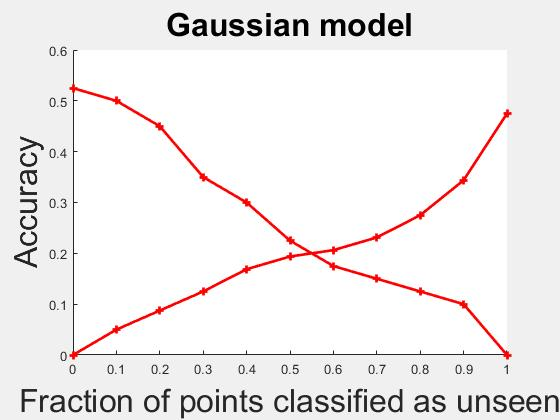
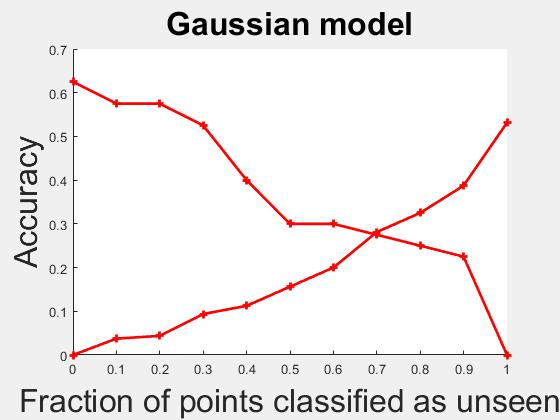
working code for multiple thetas on small data

diff --git a/main.m b/main.m
@@ -1,4 +1,6 @@
-clear 
+clear all
+clc
+close all
 addpath gaussianFunctions/;
 addpath loopFunctions/;
 addpath costFunctions/;
@@ -64,41 +66,70 @@ trainParamsUnseen.wordDataset = fullParams.wordset;
 [thetaUnseen, trainParamsUnseen] = zeroShotTrain(trainParamsUnseen);
 save(sprintf('%s/thetaUnseenSoftmax.mat', outputPath), 'thetaUnseen', 'trainParamsUnseen');
 % 
-% % Train Gaussian classifier
+% % Train Gaussian classifier %mu 10x50, sigma: 10x1
+D =trainParams.outputSize;
+mu = zeros(numCategories, D );
+sigma = zeros(numCategories,1);
 disp('Training Gaussian classifier using Mixture of Gaussians');
-% mapped = mapDoMap(X, theta, trainParams);
-% [mu, sigma, priors] = trainGaussianDiscriminant(mapped, Y, numCategories, wordTable);
-% sortedLogprobabilities = sort(predictGaussianDiscriminant(mapped, mu, sigma, priors, zeroCategories));
-% 
+priors = zeros(numCategories,1);
+k = 1;
+mapped = cell(length(nonZeroCategories),1);
+for i =1:numCategories
+    if ismember(i,nonZeroCategories)
+        mapped{k} = mapDoMap(X, theta{k}, trainParams);
+        [mu(i,:), sigma(i), priors(i)] = trainGaussianDiscriminant(mapped{k}, Y, i, numCategories, wordTable(:,i));
+        k = k+1;
+    else
+        mu(i,:) = wordTable(:,i)';
+        priors(i) = sum(Y == cat_id)/ length(Y);
+        
+    end
+end
+[~,numTraining] = size(X);
+sorted_train_Logprob = zeros(length(nonZeroCategories), numTraining );
+mappedTestImages = cell(length(nonZeroCategories),1);
+for i = 1: length(nonZeroCategories)
+    cat_id = nonZeroCategories(i);
+    sorted_train_Logprob(i,:) = predictGaussianDiscriminant(mapped{i}, mu(cat_id,:), sigma(cat_id), priors(cat_id));
+    mappedTestImages{i} = mapDoMap(testX, theta{i}, trainParams);
+
+end
+    % 
 % % Test
-% mappedTestImages = mapDoMap(testX, theta, trainParams);
+%mappedTestImages = mapDoMap(testX, theta, trainParams);
+sorted_train_Logprob = sort(sum(sorted_train_Logprob));
+resolution = 11;
+gSeenAccuracies = zeros(1, resolution);
+gUnseenAccuracies = zeros(1, resolution);
+gAccuracies = zeros(1, resolution);
+numPerIteration = floor(length(sorted_train_Logprob) / (resolution-1));
+
+for i = 1: length(nonZeroCategories)
+    cat_id = nonZeroCategories(i);
+    logprobabilities(i,:) = predictGaussianDiscriminant(mappedTestImages{i}, mu(cat_id,:), sigma(cat_id), priors(cat_id));
+end
+%logprobabilities = sum(logprobabilities);
+
+% sortedLogprobabilities (ascending order)= a   b   c   d   e   f   g   h
+% if numPerIteration 3
+%cutoffs = [a , d, g]
+cutoffs = [ arrayfun(@(x) sorted_train_Logprob((x-1)*numPerIteration+1), 1:resolution-1) sorted_train_Logprob(end) ];
+for i = 1:resolution
+    cutoff = cutoffs(i);
+    % Test Gaussian classifier
+    fprintf('With cutoff %f:\n', cutoff);
+    results = mapGaussianThresholdDoEvaluate( testX, mappedTestImages, testY, zeroCategories, label_names, wordTable, ...
+        theta, trainParams, thetaSeen, trainParamsSeen, thetaUnseen, trainParamsUnseen, logprobabilities, cutoff, true);
+
+    gSeenAccuracies(i) = results.seenAccuracy;
+    gUnseenAccuracies(i) = results.unseenAccuracy;
+    gAccuracies(i) = results.accuracy;
+end
+ gSeenAccuracies = fliplr(gSeenAccuracies);
+ gUnseenAccuracies = fliplr(gUnseenAccuracies);
+ gAccuracies = fliplr(gAccuracies);
 % 
-% resolution = 11;
-% gSeenAccuracies = zeros(1, resolution);
-% gUnseenAccuracies = zeros(1, resolution);
-% gAccuracies = zeros(1, resolution);
-% numPerIteration = floor(length(sortedLogprobabilities) / (resolution-1));
-% logprobabilities = predictGaussianDiscriminant(mappedTestImages, mu, sigma, priors, zeroCategories);
-% % sortedLogprobabilities (ascending order)= a   b   c   d   e   f   g   h
-% % if numPerIteration 3
-% %cutoffs = [a , d, g]
-% cutoffs = [ arrayfun(@(x) sortedLogprobabilities((x-1)*numPerIteration+1), 1:resolution-1) sortedLogprobabilities(end) ];
-% for i = 1:resolution
-%     cutoff = cutoffs(i);
-%     % Test Gaussian classifier
-%     fprintf('With cutoff %f:\n', cutoff);
-%     results = mapGaussianThresholdDoEvaluate( testX, testY, zeroCategories, label_names, wordTable, ...
-%         theta, trainParams, thetaSeen, trainParamsSeen, thetaUnseen, trainParamsUnseen, logprobabilities, cutoff, true);
-% 
-%     gSeenAccuracies(i) = results.seenAccuracy;
-%     gUnseenAccuracies(i) = results.unseenAccuracy;
-%     gAccuracies(i) = results.accuracy;
-% end
-% gSeenAccuracies = fliplr(gSeenAccuracies);
-% gUnseenAccuracies = fliplr(gUnseenAccuracies);
-% gAccuracies = fliplr(gAccuracies);
-% 
-% plot_Gaussian_model
+ plot_Gaussian_model
 %% 
 
 % disp('Training LoOP model'); fullParams.resolution = resolution;

diff --git a/gaussianFunctions/feedforwardDiscriminant.m b/gaussianFunctions/feedforwardDiscriminant.m
@@ -1,13 +1,14 @@
-function [guessedLabels] = feedforwardDiscriminant(thetaMapping, thetaSoftmaxSeen, thetaSoftmaxUnseen, trainParams, trainParamsSeen, trainParamsUnseen, logprobabilities, images, maxLogprobability, zeroCategoryTypes, nonzeroCategoryTypes, wordTable)
+function [guessedLabels] = feedforwardDiscriminant(thetaMapping, thetaSoftmaxSeen, thetaSoftmaxUnseen, trainParams, trainParamsSeen, trainParamsUnseen, logprobabilities, images, mappedTestImages, maxLogprobability, zeroCategoryTypes, nonzeroCategoryTypes, wordTable)
 
 addpath toolbox/pwmetric;
-
+sum_logprobabilities = sum(logprobabilities);
 % Forward Propagation
-mappedImages = mapDoMap(images, thetaMapping, trainParams);
+%mappedImages = mapDoMap(images, thetaMapping, trainParams);
 
-unseenIndices = logprobabilities < maxLogprobability;
+unseenIndices = sum_logprobabilities < maxLogprobability;
+
 seenIndices = ~unseenIndices;
-
+% Seen label classifier
 Ws = stack2param(thetaSoftmaxSeen, trainParamsSeen.decodeInfo);
 pred = exp(Ws{1}*images(:, seenIndices)); % k by n matrix with all calcs needed
 pred = bsxfun(@rdivide,pred,sum(pred));
@@ -16,10 +17,18 @@ guessedLabels(seenIndices) = nonzeroCategoryTypes(gind);
 
 % This is the unseen label classifier
 unseenWordTable = wordTable(:, zeroCategoryTypes);
-tDist = slmetric_pw(unseenWordTable, mappedImages(:, unseenIndices), 'eucdist');
+[~,closest_seen_idx] = min(logprobabilities(:,unseenIndices));
+D = size(wordTable,1);
+unseen_idx = find(unseenIndices==1);
+closest_mapping = zeros(D,length(unseen_idx));
+for i = 1:length(closest_seen_idx)
+    closest_mapping(:,i) = mappedTestImages{closest_seen_idx(i)}(:,unseen_idx(i));
+end
+
+tDist = slmetric_pw(unseenWordTable, closest_mapping, 'eucdist');
 [~, tGuessedCategories ] = min(tDist);
 guessedLabels(unseenIndices) = zeroCategoryTypes(tGuessedCategories);
-
+% find class which mapas given image closest to it e.g.
 % Wu = stack2param(thetaSoftmaxUnseen, trainParamsUnseen.decodeInfo);
 % pred = exp(Wu{1}*mappedImages(:, unseenIndices)); % k by n matrix with all calcs needed
 % pred = bsxfun(@rdivide,pred,sum(pred));

diff --git a/gaussianFunctions/trainGaussianDiscriminant.m b/gaussianFunctions/trainGaussianDiscriminant.m
@@ -1,22 +1,22 @@
 %p(y|x,X_T) = sum_v p(y|v,X_t)*p(v|x,X_T)
 %p(y=1|v,x,X_T) = p(x|y=i,mu,Sigma)*p(y=i)/sum_{k=1}^{|V|}p(x|y=k,mu,Sigma)*pi(y=k)
 
-function [mu,sigma_elem,priors] = trainGaussianDiscriminant(projectedImageFeatures, labels, numLabels, wordVectors)
+function [mu,sigma_elem,prior] = trainGaussianDiscriminant(projectedImageFeatures, labels, cat_id, numLabels, wordVectors)
 
 [dim,numTraining] = size(projectedImageFeatures);
 %sigma = zeros(numLabels, dim, dim);
 %mu = zeros(numLabels, dim);
-sigma_elem = zeros(numLabels, 1);
 mu = wordVectors';
 
-priors = zeros(numLabels, 1);
+%priors = zeros(numLabels, 1);
 
-for i=1:numLabels
-	labelImageFeatures = projectedImageFeatures(:, labels == i);
-    priors(i) = size(labelImageFeatures, 2) / numTraining;
-    labelMu = squeeze(mu(i,:))';
-    sigma_elem(i) = sum(sum(bsxfun(@minus, labelImageFeatures, labelMu).^2))/(numTraining*dim);
+labelImageFeatures = projectedImageFeatures(:, labels == cat_id);
+prior = size(labelImageFeatures, 2) / numTraining;
+labelMu = mu';
+% divinding sigma by only number of images belonging to that class
+% Earlier they were diviging by total N
+sigma_elem = sum(sum(bsxfun(@minus, labelImageFeatures, labelMu).^2))/(size(labelImageFeatures,2)*dim);
 %    sigma(i,:,:) = diag(repmat(sum(sum(bsxfun(@minus, labelImageFeatures, labelMu).^2))/(numTraining*dim), dim, 1));
-end
+
 
 end

diff --git a/evaluateFunctions/mapGaussianThresholdDoEvaluate.m b/evaluateFunctions/mapGaussianThresholdDoEvaluate.m
@@ -1,4 +1,4 @@
-function [ results ] = mapGaussianThresholdDoEvaluate ( images, categories, zeroCategoryTypes, categoryNames, wordTable, thetaMapping, trainParams, thetaSoftmaxSeen, trainParamsSeen, thetaSoftmaxUnseen, trainParamsUnseen, logprobabilities, maxLogprobability, doPrint )
+function [ results ] = mapGaussianThresholdDoEvaluate ( images, mappedTestImages,categories, zeroCategoryTypes, categoryNames, wordTable, thetaMapping, trainParams, thetaSoftmaxSeen, trainParamsSeen, thetaSoftmaxUnseen, trainParamsUnseen, logprobabilities, maxLogprobability, doPrint )
 
 addpath toolbox/pwmetric;
 
@@ -7,7 +7,7 @@ numCategories = size(wordTable, 2);
 
 nonzeroCategoryTypes = setdiff(1:length(categoryNames), zeroCategoryTypes);
 
-guessedCategories = feedforwardDiscriminant(thetaMapping, thetaSoftmaxSeen, thetaSoftmaxUnseen, trainParams, trainParamsSeen, trainParamsUnseen, logprobabilities, images, maxLogprobability, zeroCategoryTypes, nonzeroCategoryTypes, wordTable);
+guessedCategories = feedforwardDiscriminant(thetaMapping, thetaSoftmaxSeen, thetaSoftmaxUnseen, trainParams, trainParamsSeen, trainParamsUnseen, logprobabilities, images,mappedTestImages,  maxLogprobability, zeroCategoryTypes, nonzeroCategoryTypes, wordTable);
 
 % Calculate scores
 confusion = zeros(numCategories, numCategories);

diff --git a/gaussianFunctions/predictGaussianDiscriminant.m b/gaussianFunctions/predictGaussianDiscriminant.m
@@ -1,18 +1,13 @@
 % outputs the probability that each image feature is seen before
-function [logprobability] = predictGaussianDiscriminant(projectedImageFeatures, mu, sigma_elem, priors, deletedClasses)
+function [logprobability] = predictGaussianDiscriminant(projectedImageFeatures, mu, sigma_elem, priors)
 
 dim = size(mu, 1);
-numLabels = size(mu, 1);
 numTraining = size(projectedImageFeatures, 2);
 
 probability = zeros(1, numTraining);
-for i = 1:numLabels
-    if ~ismember(i, deletedClasses)
-        temp = bsxfun(@minus, projectedImageFeatures, mu(i,:)');
-        logprobability = -0.5*(sum(1/sigma_elem(i)*(temp.^2), 1) + dim*log(2*pi) + dim*log(sigma_elem(i)));
-        probability = probability + priors(i)*exp(logprobability);
-    end
-end
+temp = bsxfun(@minus, projectedImageFeatures, mu');
+logprobability = -0.5*(sum(1/sigma_elem*(temp.^2), 1) + dim*log(2*pi) + dim*log(sigma_elem));
+probability = priors*exp(logprobability);
 
 logprobability = log(probability);
 
